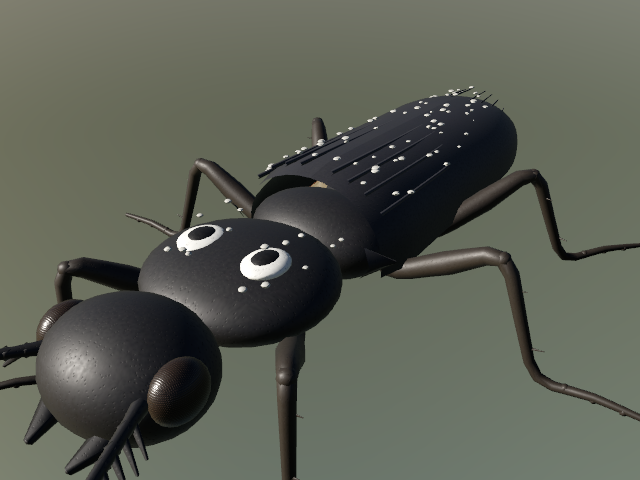
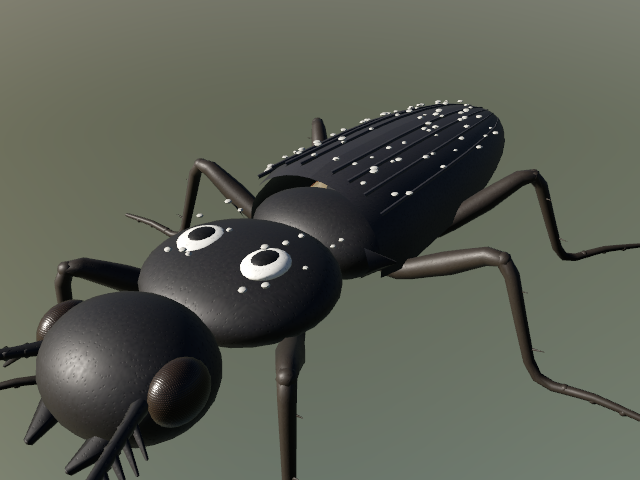
Eyed click beetle: tapered elytra apex (Elytra.tipRound)

diff --git a/Sources/RealLibrary/Nature/Insects/EyedClickBeetle.swift b/Sources/RealLibrary/Nature/Insects/EyedClickBeetle.swift
@@ -32,7 +32,7 @@ public struct EyedClickBeetle: RealArticulated {
         ]
         p.legMat = "insect.chitin-matte:2A241E"; p.antennaMat = black; p.spines = [2, 2, 2]
         p.antenna = .init(base: V3(0.0028, 0.0058, 0.0172), dir: V3(0.45, 0.15, 0.85), length: 0.0085, radius: 0.00028, curve: 0, beads: 9)
-        p.elytra = .init(front: 0.0030, length: 0.0235, halfWidth: 0.0049, height: 0.0040, baseY: 0.0050, mat: shell, inner: "insect.chitin-matte:1A1A1C", atlas: false)
+        p.elytra = .init(front: 0.0030, length: 0.0235, halfWidth: 0.0049, height: 0.0040, baseY: 0.0050, mat: shell, inner: "insect.chitin-matte:1A1A1C", atlas: false, tipRound: 0.7)
         p.hind = .init(.membraneHind, root: V3(0.0022, 0.0060, 0.0030), span: V3(1, 0.05, -0.35), chord: V3(0.35, 0, 1), length: 0.022, width: 0.0085,
                        mat: "insect.membrane-amber", veins: "insect.veins-beetle", droop: 0.0012,
                        folded: (V3(0.0018, 0.0051, 0.0030), V3(0.1, 0, -1), V3(1, 0, 0.1), 0.0105, 0.003))
@@ -40,6 +40,10 @@ public struct EyedClickBeetle: RealArticulated {
         let black = black, silver = silver
         p.extra = { rig, d, L in
             var rng = SeededRNG(seed: seed &+ 7)
+            func prof(_ u: Float) -> Float {
+                let t = (0.7 - (1 - u)) / 0.7
+                return t > 0 ? sqrt(max(0, 1 - t * t)) : 1
+            }
             for side: Float in [1, -1] {
                 // Pronotum eyespot: white ring with black pupil.
                 rig.add(InsectKit.blob(V3(side * 0.0019, 0.0072, 0.0090), V3(0.0011, 0.0004, 0.0013), material: "insect.chitin-matte:E6E6E0", sub: max(2, d.sub - 2)), to: "body", lods: L)
@@ -61,17 +65,17 @@ public struct EyedClickBeetle: RealArticulated {
                 for xf: Float in [0.2, 0.4, 0.6, 0.8] {
                     let pts = (0...6).map { i -> V3 in
                         let u = Float(i) / 6 * 0.9 + 0.02
-                        let hw = 0.0049 * max(0.25, 1 - 0.6 * u * u * u) * xf
-                        return V3(side * hw, 0.0050 + 0.0040 * sqrt(max(0, 1 - xf * xf)) * (1 - 0.35 * u) + 0.00005, 0.0030 - 0.0235 * u)
+                        let hw = 0.0049 * max(0.02, prof(u)) * xf
+                        return V3(side * hw, 0.0050 + 0.0040 * sqrt(max(0, 1 - xf * xf)) * prof(u) * (1 - 0.25 * u) + 0.00005, 0.0030 - 0.0235 * u)
                     }
                     rig.add(InsectKit.limb(pts, radii: [0.00014, 0.00014, 0.00014, 0.00014, 0.00012, 0.00009, 0.00004], material: "insect.chitin-matte:343438", sides: 4, per: 1), to: side > 0 ? "elytra-l" : "elytra-r", lods: L)
                 }
                 let n = d.lod == 0 ? 42 : 0
                 for _ in 0..<n {
-                    let u = Float.random(in: 0.04...0.96, using: &rng), x = Float.random(in: 0.08...0.92, using: &rng)
+                    let u = Float.random(in: 0.04...0.88, using: &rng), x = Float.random(in: 0.08...0.92, using: &rng)
                     let z = 0.0030 - 0.0235 * u
-                    let hw = 0.0049 * max(0.25, 1 - 0.6 * u * u * u) * x
-                    let y = 0.0050 + 0.0040 * sqrt(max(0, 1 - x * x)) * (1 - 0.35 * u) + 0.0003
+                    let hw = 0.0049 * max(0.02, prof(u)) * x
+                    let y = 0.0050 + 0.0040 * sqrt(max(0, 1 - x * x)) * prof(u) * (1 - 0.25 * u) + 0.0003
                     let r = Float.random(in: 0.00012...0.00024, using: &rng)
                     rig.add(InsectKit.blob(V3(side * hw, y, z), V3(r, r * 0.35, r * 1.2), material: silver, sub: 1), to: side > 0 ? "elytra-l" : "elytra-r", lods: L)
                 }

diff --git a/Sources/RealLibrary/Nature/Insects/InsectKit.swift b/Sources/RealLibrary/Nature/Insects/InsectKit.swift
@@ -385,8 +385,9 @@ public struct InsectPlan {
     public struct Antenna { public var base: V3, dir: V3, length: Float, radius: Float, curve: Float = 0.3, elbow: Float = 0, club: Float = 0, beads: Int = 0
         public init(base: V3, dir: V3, length: Float, radius: Float, curve: Float = 0.3, elbow: Float = 0, club: Float = 0, beads: Int = 0) {
             self.base = base; self.dir = dir; self.length = length; self.radius = radius; self.curve = curve; self.elbow = elbow; self.club = club; self.beads = beads } }
-    public struct Elytra { public var front: Float, length: Float, halfWidth: Float, height: Float, baseY: Float, mat: MaterialKey, inner: MaterialKey, atlas: Bool, wrap: Float = 1.8
-        public init(front: Float, length: Float, halfWidth: Float, height: Float, baseY: Float, mat: MaterialKey, inner: MaterialKey, atlas: Bool, wrap: Float = 1.8) {
+    public struct Elytra { public var front: Float, length: Float, halfWidth: Float, height: Float, baseY: Float, mat: MaterialKey, inner: MaterialKey, atlas: Bool, wrap: Float = 1.8, tipRound: Float = 0.35
+        public init(front: Float, length: Float, halfWidth: Float, height: Float, baseY: Float, mat: MaterialKey, inner: MaterialKey, atlas: Bool, wrap: Float = 1.8, tipRound: Float = 0.35) {
+            self.tipRound = tipRound
             self.front = front; self.length = length; self.halfWidth = halfWidth; self.height = height; self.baseY = baseY; self.mat = mat; self.inner = inner; self.atlas = atlas; self.wrap = wrap } }
 
     public var name: String
@@ -470,7 +471,7 @@ public extension InsectKit {
             if let e = p.elytra {
                 for side: Float in [1, -1] {
                     for s in elytron(side: side, front: e.front, length: e.length, halfWidth: e.halfWidth, height: e.height, baseY: e.baseY,
-                                     wrap: e.wrap, material: e.mat, inner: e.inner, atlas: e.atlas, d: d) {
+                                     wrap: e.wrap, material: e.mat, inner: e.inner, atlas: e.atlas, d: d, tipRound: e.tipRound) {
                         rig.add(s, to: side > 0 ? "elytra-l" : "elytra-r", lods: L)
                     }
                 }
